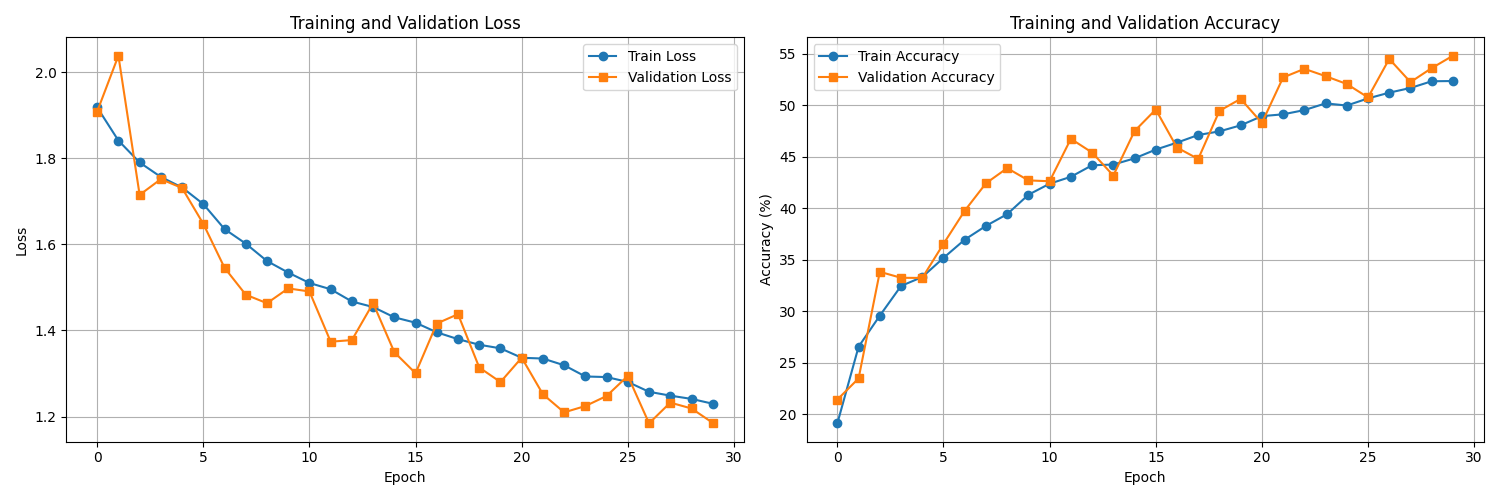
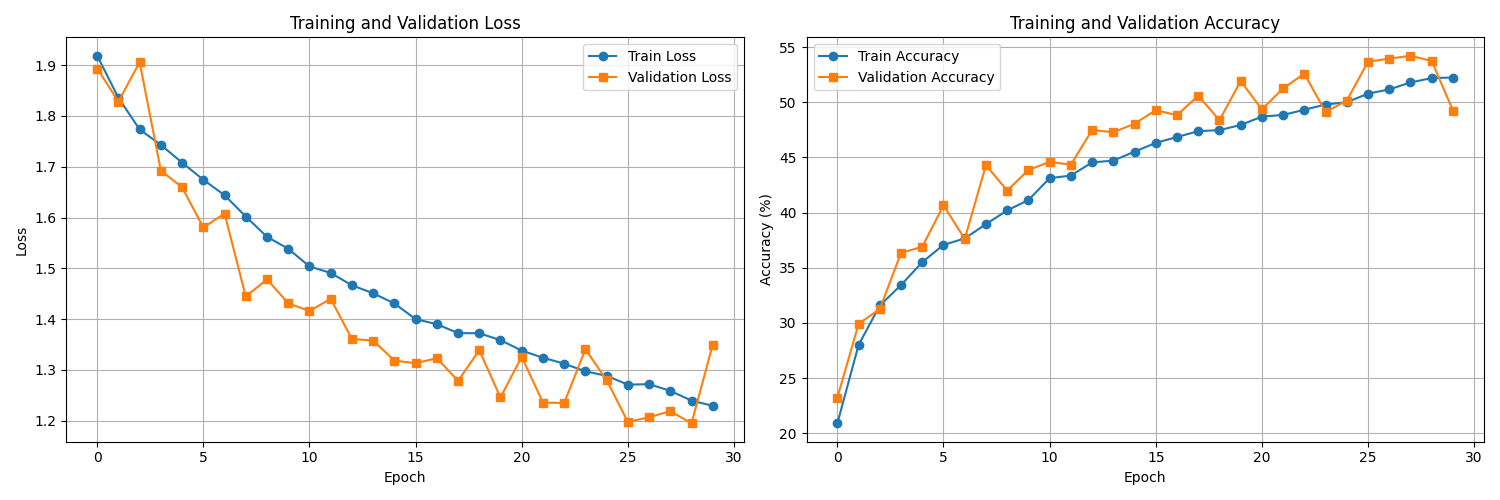
Building model training file for Facial Recognition & Exporting to .onnx

diff --git a/training/model_training.py b/training/model_training.py
@@ -9,6 +9,7 @@ import torch.optim as optim
 from torchvision import transforms, datasets
 import matplotlib.pyplot as plt
 import numpy as np
+import onnxscript
 
 load_dotenv()
 
@@ -191,6 +192,9 @@ class TrainModel():
                 torch.save(self.model.state_dict(), 'best_model.pth')
                 print(f"Saved best model with validation loss: {best_val_loss:.4f}")
 
+                # Also export to ONNX
+                self._export_to_onnx()
+
             print(f"\nEpoch [{epoch+1}/{epochs}]")
             print(f"Train Loss: {avg_train_loss:.4f}, Train Acc: {train_accuracy:.2f}%")
             print(f"Val Loss: {avg_val_loss:.4f}, Val Acc: {val_accuracy:.2f}%")
@@ -235,6 +239,48 @@ class TrainModel():
         print(f"Best Validation Accuracy: {max(self.val_accuracies):.2f}%")
         print(f"Final Training Loss: {self.train_losses[-1]:.4f}")
         print(f"Final Validation Loss: {self.val_losses[-1]:.4f}")
+
+    def _export_to_onnx(self, output_path="models/best_model.onnx", image_size=48):
+        """
+        Export the current model to ONNX format
+        
+        Args:
+            output_path: Path to save the ONNX model
+            image_size: Input image size (default 48x48)
+        """
+        try:
+            self.model.eval()
+            dummy_input = torch.randn(1, 3, image_size, image_size).to(self.device)
+            
+            # Create output directory if it doesn't exist
+            os.makedirs(os.path.dirname(output_path), exist_ok=True)
+            
+            torch.onnx.export(
+                self.model,
+                dummy_input,
+                output_path,
+                export_params=True,
+                opset_version=17,  # Changed from 11 to 17 (ONNX Runtime supports this well)
+                do_constant_folding=True,  # Optimize the model
+                input_names=['input'],
+                output_names=['output'],
+                dynamic_axes={
+                    'input': {0: 'batch_size'},
+                    'output': {0: 'batch_size'}
+                },
+                dynamo=False
+            )
+            
+            print(f"✓ Model exported to ONNX: {output_path}")
+            print(f"  Input: [batch_size, 3, {image_size}, {image_size}]")
+            print(f"  Output: [batch_size, 7]")
+            print(f"  Classes: {self.class_names if hasattr(self, 'class_names') else 'Unknown'}")
+            
+        except Exception as e:
+            print(f"✗ Failed to export ONNX: {e}")
+            import traceback
+            traceback.print_exc()
+
 
 
 def main():
